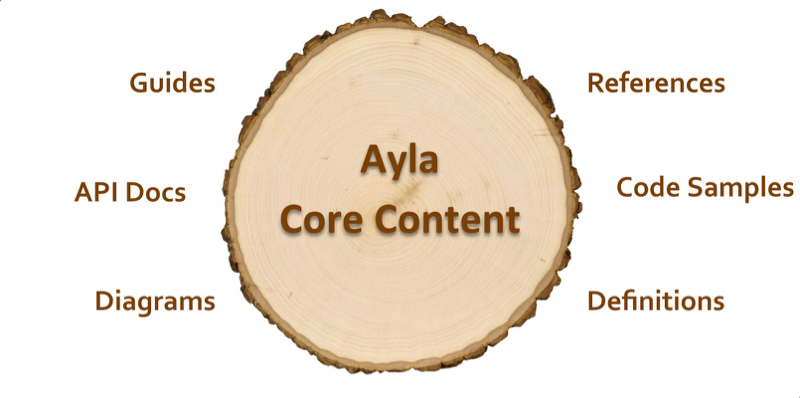
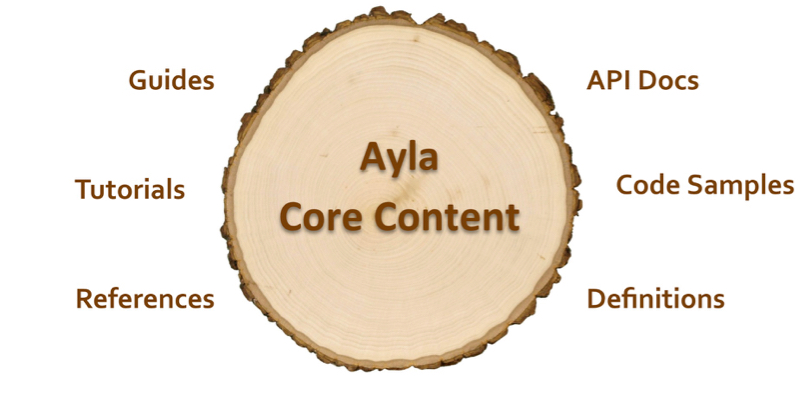
Baseline before moving to all index.html files.

diff --git a/layouts/partials/menu.html b/layouts/partials/menu.html
@@ -9,25 +9,17 @@
 
 <li class="nav-item dropdown">
 <a class="nav-link dropdown-toggle" href="#" id="navbarDropdown" role="button" data-toggle="dropdown" aria-haspopup="true" aria-expanded="false">
-Guides
+Category
 </a>
 <div class="dropdown-menu" aria-labelledby="navbarDropdown">
-<a id="dd-devices" class="dropdown-item" href="/content/devices/">Device Developer</a>
-<a id="dd-cloud" class="dropdown-item" href="/content/cloud/">Cloud Integrator</a>
-<a id="dd-apps" class="dropdown-item" href="/content/apps/">App Developer</a>
+<a id="dd-devices" class="dropdown-item" href="/content/devices/">Devices</a>
+<a id="dd-cloud" class="dropdown-item" href="/content/cloud/">Cloud</a>
+<a id="dd-apps" class="dropdown-item" href="/content/apps/">Apps</a>
 <!--<div class="dropdown-divider"></div>-->
 </div>
 </li>
 
-<li class="nav-item dropdown">
-<a class="nav-link dropdown-toggle" href="#" id="navbarDropdown" role="button" data-toggle="dropdown" aria-haspopup="true" aria-expanded="false">
-References
-</a>
-<div class="dropdown-menu" aria-labelledby="navbarDropdown">
-<a id="dd-glossary" class="dropdown-item" href="/content/glossary/">Glossary</a>
-</div>
-</li>
-
+<li id="glossary" class="nav-item {{glossary}}"><a class="nav-link" href="/content/glossary/">Glossary</a></li>
 <li id="training" class="nav-item {{training}}"><a class="nav-link" href="/content/training/">Training</a></li>
 <li id="certification" class="nav-item {{certification}}"><a class="nav-link" href="/content/certification/">Certification</a></li>
 <li id="feedback" class="nav-item {{feedback}}"><a class="nav-link" href="#">Feedback</a></li>

diff --git a/layouts/partials/devices_sn.html b/layouts/partials/devices_sn.html
@@ -29,14 +29,6 @@
 <li id="adk2-yellow"><a href="/content/devices/adk2/yellow.html">Yellow</a></li>
 </ol>
 </li>
-<li id="ala"><span>Ayla Linux Agent</span>
-<ol style="display:{{ala}};">
-<li id="ala-introduction"><a href="/content/devices/ala/introduction.html">Introduction</a></li> 
-<li id="ala-red"><a href="/content/devices/ala/red.html">Red</a></li>
-<li id="ala-white"><a href="/content/devices/ala/white.html">White</a></li>
-<li id="ala-yellow"><a href="/content/devices/ala/yellow.html">Yellow</a></li>
-</ol>
-</li>
 <li id="adga"><span>Ayla Dynamic Gateway Agent</span>
 <ol style="display:{{adga}};">
 <li id="adga-introduction"><a href="/content/devices/adga/introduction.html">Introduction</a></li>

diff --git a/layouts/home.html b/layouts/home.html
@@ -37,10 +37,10 @@
 </div>
 <div class="col-6" style="color: #864313; font-weight: bold;">
 <div class="row"><div class="col-12">Guides</div></div>
+<div class="row"><div class="col-12">Tutorials</div></div>
 <div class="row"><div class="col-12">References</div></div>
 <div class="row"><div class="col-12">API Docs</div></div>
 <div class="row"><div class="col-12">Code Samples</div></div>
-<div class="row"><div class="col-12">Diagrams</div></div>
 <div class="row"><div class="col-12">Definitions</div></div>
 </div>
 </div>

diff --git a/layouts/feedback.html b/layouts/feedback.html
@@ -23,7 +23,7 @@
 
 <p>If your feedback is specific to a particular page, please navigate to that page, and then click Feedback in the Top Menu so the website can accurately populate the Category and Item fields in the form below.</p>
 
-<form>
+<form action="process_feedback.php" method="post">
   <div class="form-row">
     <div class="form-group col-md-6">
       <label for="first-name">First Name</label>

diff --git a/src/content/devices/index.md b/src/content/devices/index.md
@@ -1,9 +1,7 @@
 ---
-title: Device Developer Guides
+title: Devices
 layout: devices.html
 ---
-
-This table summarizes Ayla's device connectivity solutions. Click links to view definitions. 
 
 <table>
 <tr>
@@ -13,30 +11,30 @@ This table summarizes Ayla's device connectivity solutions. Click links to view 
 <th class="center">Cellular solution</th>
 </tr>
 <tr>
-<td rowspan="5"><a href="/content/glossary/end-device.html">End Device</a></td>
-<td><a href="/content/glossary/production-module.html">Production Module</a></td>
-<td><a href="/content/glossary/ayla-wi-fi-production-module.html">Ayla Wi-Fi Production Module</a></td>
-<td><a href="/content/glossary/ayla-cellular-production-module.html">Ayla Cellular Production Module</a></td>
+<td rowspan="5">End Device</td>
+<td>Production Module</td>
+<td><a href="">Ayla Wi-Fi Production Module</td>
+<td><a href="">Ayla Cellular Production Module</td>
 </tr>
 <tr>
-<td rowspan="4"><a href="/content/glossary/software-agent.html">Software Agent</a></td>
-<td colspan="2" class="center"><a href="/content/glossary/ayla-integrated-agent.html">Ayla Integrated Agent</a></td>
+<td rowspan="4">Software Agent</td>
+<td colspan="2" class="center"><a href="">Ayla Integrated Agent</a></td>
 </tr>
 <tr>
-<td colspan="2" class="center"><a href="/content/glossary/ayla-portable-agent.html">Ayla Portable Agent</a></td>
+<td colspan="2" class="center"><a href="">Ayla Portable Agent</a></td>
 </tr>
 <tr>
-<td colspan="2" class="center"><a href="/content/glossary/ayla-linux-agent.html">Ayla Linux Agent</a></td>
+<td colspan="2" class="center"><a href="">Ayla Linux Agent</a></td>
 </tr>
 <tr>
-<td colspan="2" class="center"><a href="/content/glossary/ayla-android-agent.html">Ayla Android Agent</a></td>
+<td colspan="2" class="center"><a href="">Ayla Android Agent</a></td>
 </tr>
 <tr>
-<td rowspan="2"><a href="/content/glossary/gateway.html">Gateway</td>
-<td rowspan="2"><a href="/content/glossary/gateway-agent.html">Gateway Agent</a></td>
-<td colspan="2" class="center"><a href="/content/glossary/ayla-dynamic-gateway-agent.html">Ayla Dynamic Gateway Agent</a></td>
+<td rowspan="2">Gateway</td>
+<td rowspan="2">Gateway Agent</td>
+<td colspan="2" class="center"><a href="">Ayla Dynamic Gateway Agent</a></td>
 </tr>
 <tr>
-<td colspan="2" class="center"><a href="/content/glossary/ayla-static-gateway-agent.html">Ayla Static Gateway Agent</a></td>
+<td colspan="2" class="center"><a href="">Ayla Static Gateway Agent</a></td>
 </tr>
 </table>

diff --git a/src/content/cloud/index.md b/src/content/cloud/index.md
@@ -1,6 +1,6 @@
 ---
-title: Cloud Integrator Guides
+title: Cloud
 layout: cloud.html
 ---
 
-This is the cloud content.
+

diff --git a/src/content/apps/index.md b/src/content/apps/index.md
@@ -1,5 +1,5 @@
 ---
-title: App Developer Guides
+title: Apps
 layout: apps.html
 ---
 
